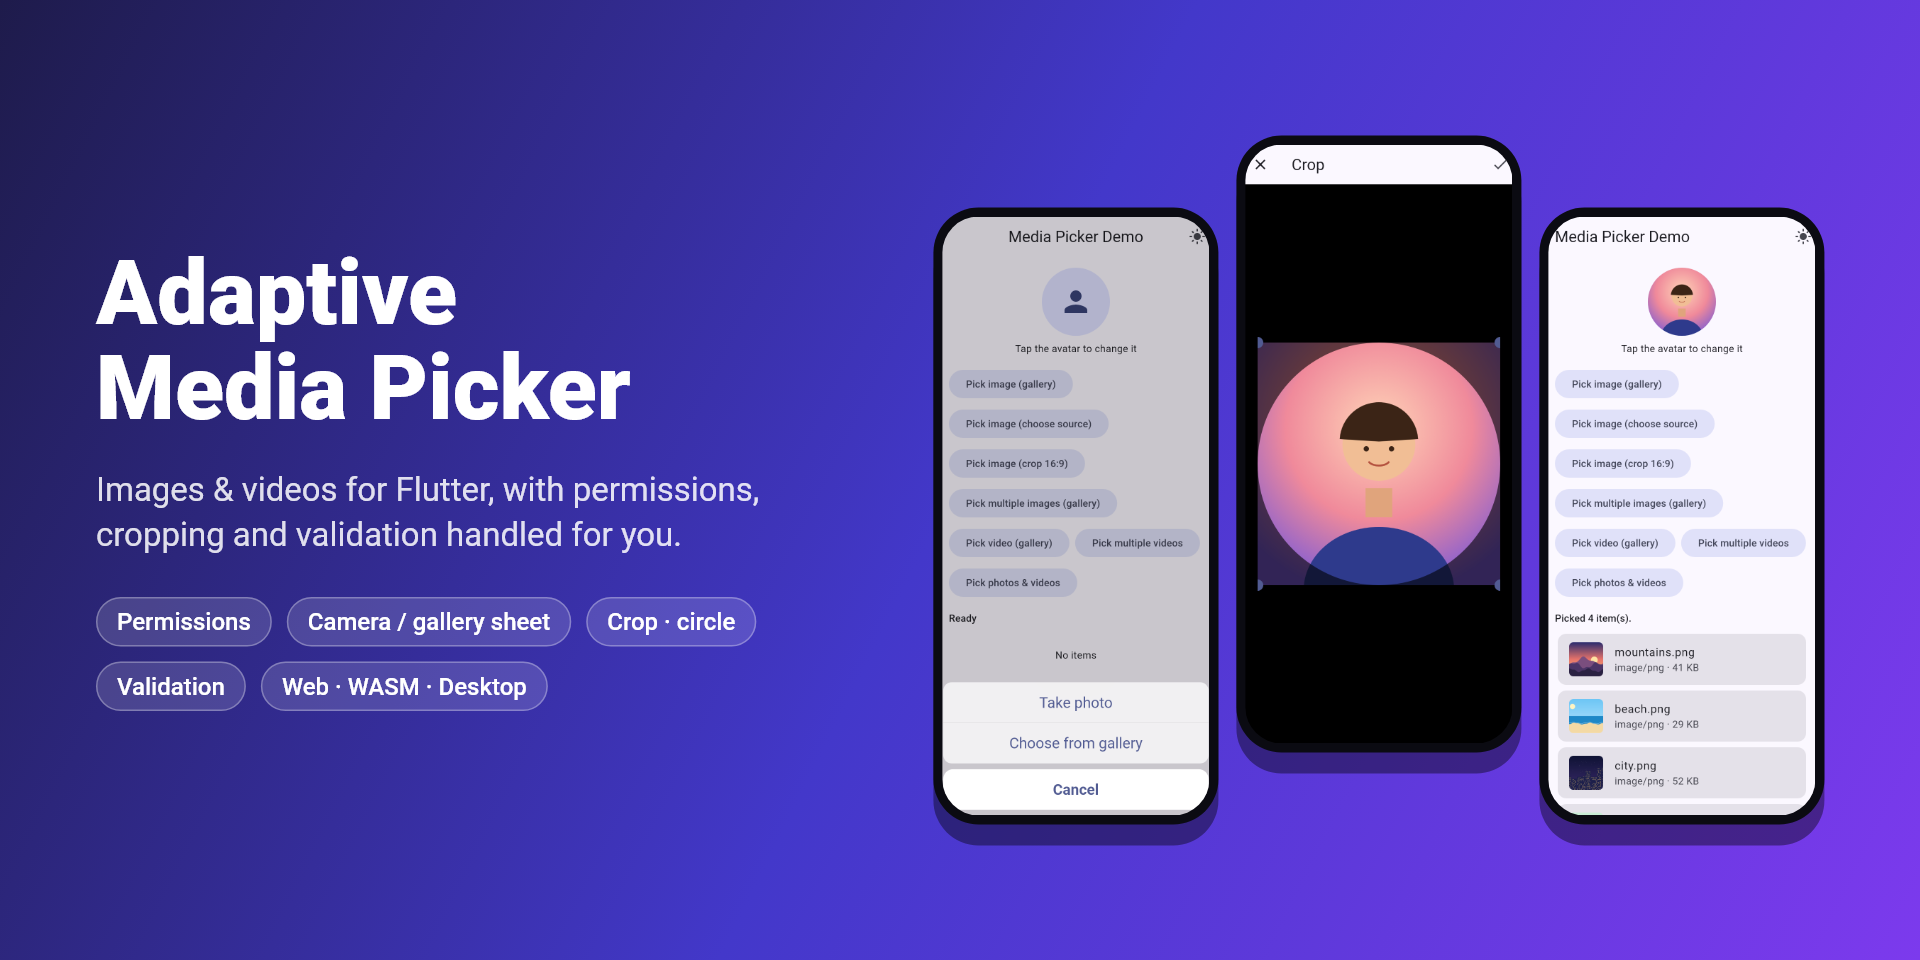
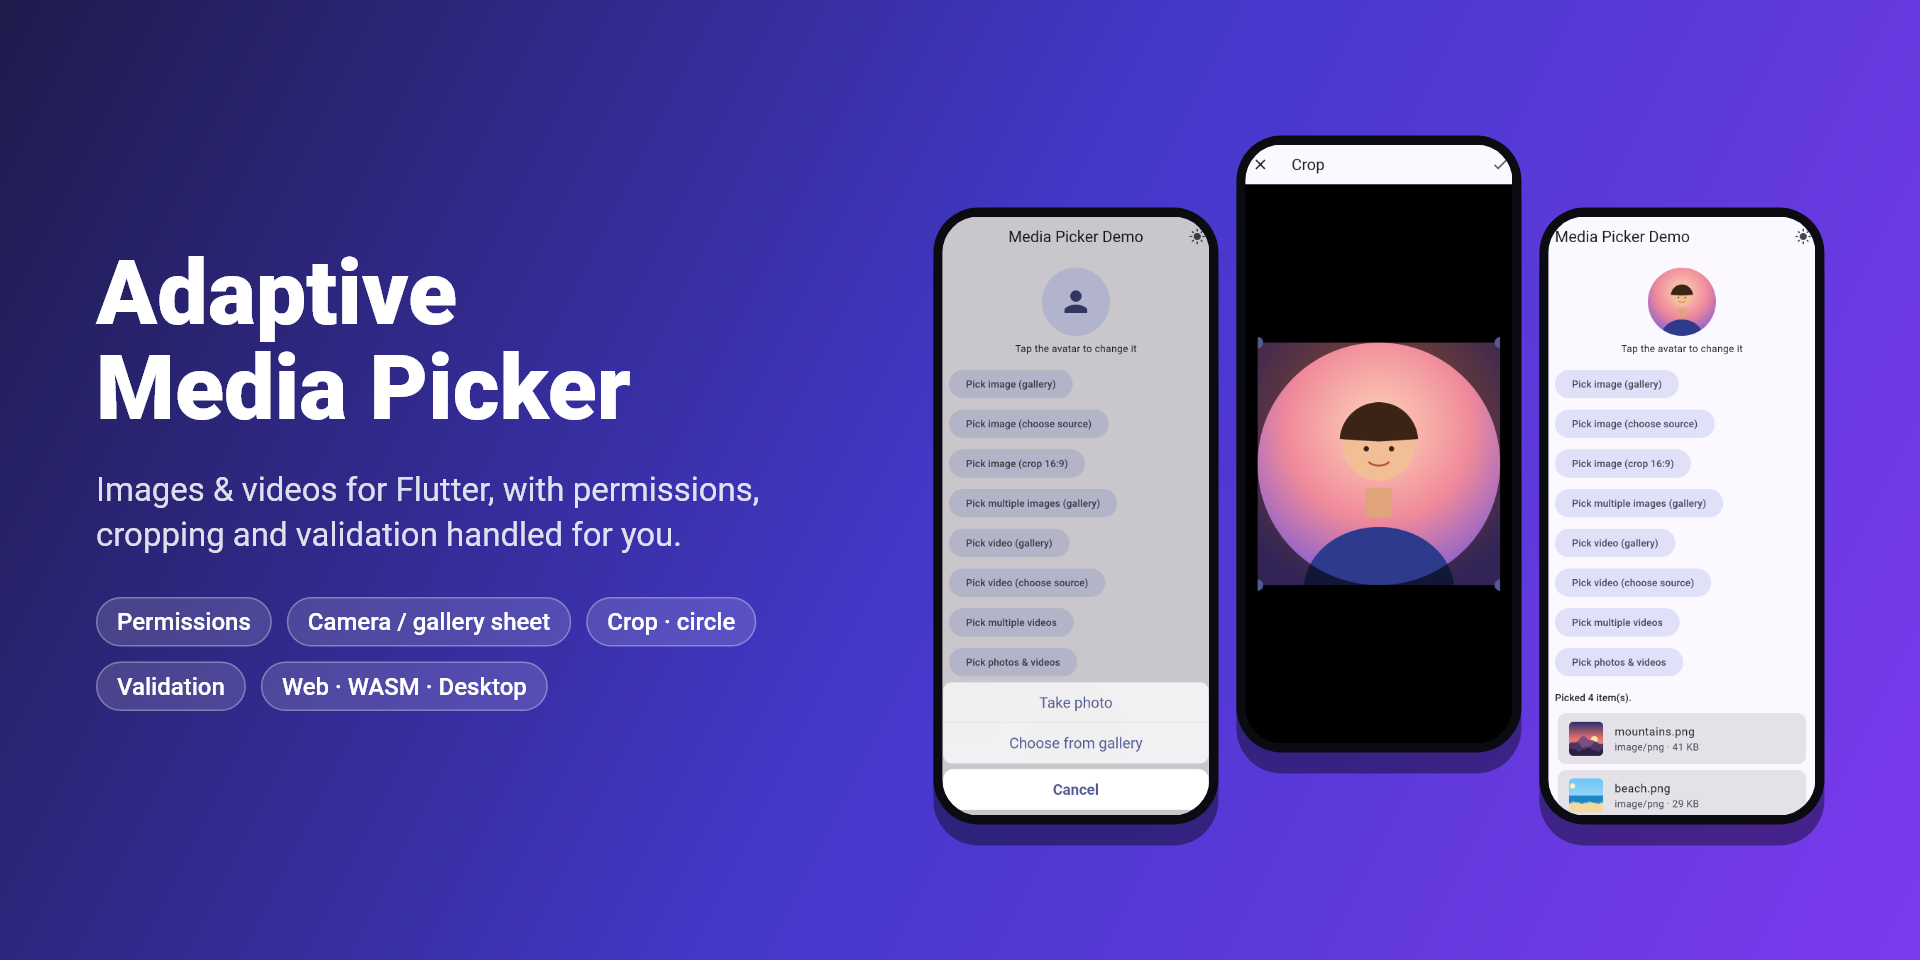
fix: follow the app theme in the native cropper; update example Android build
When primaryColor/themeBrightness aren't set, the Android cropper now uses
the app theme instead of a fixed blue light-mode toolbar, and its toolbar
icons are colored for contrast with the toolbar. The example's Android
build moves to Gradle 8.14.3, AGP 8.11.1 and Kotlin 2.2.20 (current
Flutter's minimums), gains a "Pick video (choose source)" demo, and the
README screenshots are regenerated.

diff --git a/lib/src/adaptive_media_picker_impl.dart b/lib/src/adaptive_media_picker_impl.dart
@@ -306,14 +306,16 @@ class AdaptiveMediaPicker {
       return _singleResult(media, permission, options, uncropped);
     }
 
+    // The native cropper can't read the Flutter theme, so resolve it here.
+    final ThemeData theme = Theme.of(context);
     final String? croppedPath = await PlatformImageCropper.cropImage(
       sourcePath: media.path,
       context: context,
       // Keep PNGs (and their transparency) as PNG.
       compressFormat: media.mimeType == 'image/png' ? 'png' : 'jpg',
       compressQuality: options.imageQuality ?? 100,
-      themeBrightness: options.themeBrightness,
-      primaryColor: options.primaryColor,
+      themeBrightness: options.themeBrightness ?? theme.brightness,
+      primaryColor: options.primaryColor ?? theme.colorScheme.primary,
       cropAspectRatio: options.cropAspectRatio,
       lockCropAspectRatio: options.lockCropAspectRatio,
       cropShape: options.cropShape,

diff --git a/lib/src/platform/mobile_image_cropper.dart b/lib/src/platform/mobile_image_cropper.dart
@@ -126,7 +126,6 @@ class BackendImageCropper {
         primaryColor ?? (isDark ? Colors.blueAccent : Colors.blue);
     // Surfaces and text colors
     final Color surface = isDark ? const Color(0xFF121212) : Colors.white;
-    final Color onSurface = isDark ? Colors.white : Colors.black;
     // Dim and frame/grid accents
     final Color dimmed = isDark ? Colors.black54 : Colors.black26;
     final Color frameColor = primary.withValues(alpha: 0.9);
@@ -137,7 +136,8 @@ class BackendImageCropper {
           toolbarTitle: title,
           cropStyle: cropStyle,
           toolbarColor: primary,
-          toolbarWidgetColor: onSurface.computeLuminance() > 0.5
+          // Icons/title sit on the primary-colored toolbar.
+          toolbarWidgetColor: primary.computeLuminance() > 0.5
               ? Colors.black
               : Colors.white,
           backgroundColor: surface,

diff --git a/example/lib/main.dart b/example/lib/main.dart
@@ -194,6 +194,16 @@ class _ExampleHomePageState extends State<ExampleHomePage> {
         ),
       ),
       (
+        'Pick video (choose source)',
+        () => _single(
+          () => _picker.pickVideo(
+            context: context,
+            sourceSheet: const SourceSheetOptions(),
+            options: const PickOptions(maxVideoDuration: Duration(seconds: 10)),
+          ),
+        ),
+      ),
+      (
         'Pick multiple videos',
         () => _multiple(
           () => _picker.pickMultiVideo(

diff --git a/CHANGELOG.md b/CHANGELOG.md
@@ -71,6 +71,13 @@ Changes and fixes:
   platform matrix (limited-access UX is iOS-only; cropping is everywhere) and
   documented the remaining public API. README images are no longer shipped
   in the package archive.
+- The native cropper (Android) now follows the app theme when
+  `primaryColor` / `themeBrightness` aren't set (it used to fall back to a
+  fixed blue, light-mode toolbar), and its toolbar icons are colored for
+  contrast with the toolbar itself, so they stay readable in dark mode.
+- Example app: Android build updated to Gradle 8.14.3, AGP 8.11.1 and
+  Kotlin 2.2.20 (the minimums current Flutter accepts), plus a
+  "Pick video (choose source)" demo.
 - Built-in crop editor shows the whole image on a dark backdrop (it used to
   zoom landscape photos) with fully visible corner handles.
 
